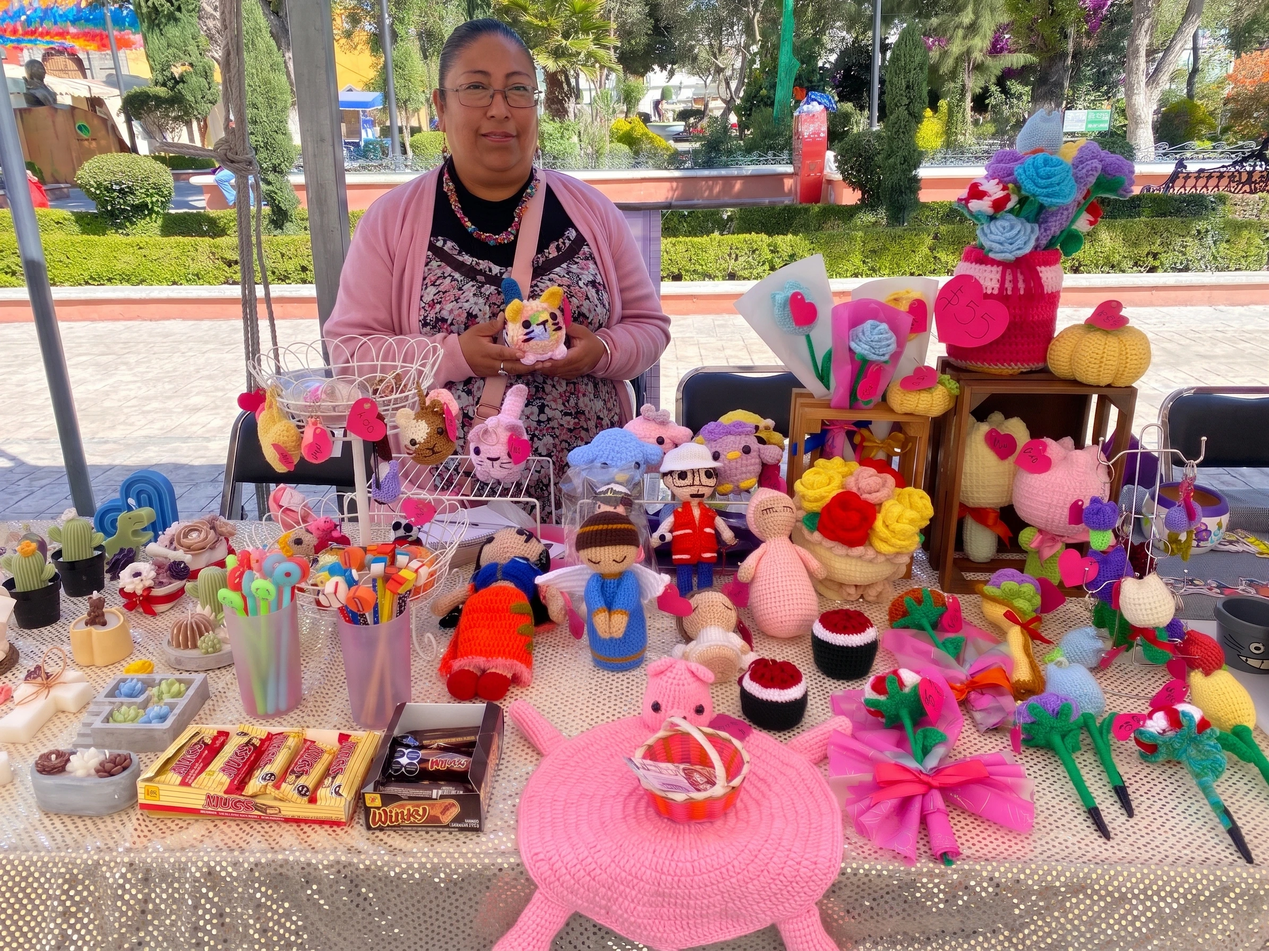
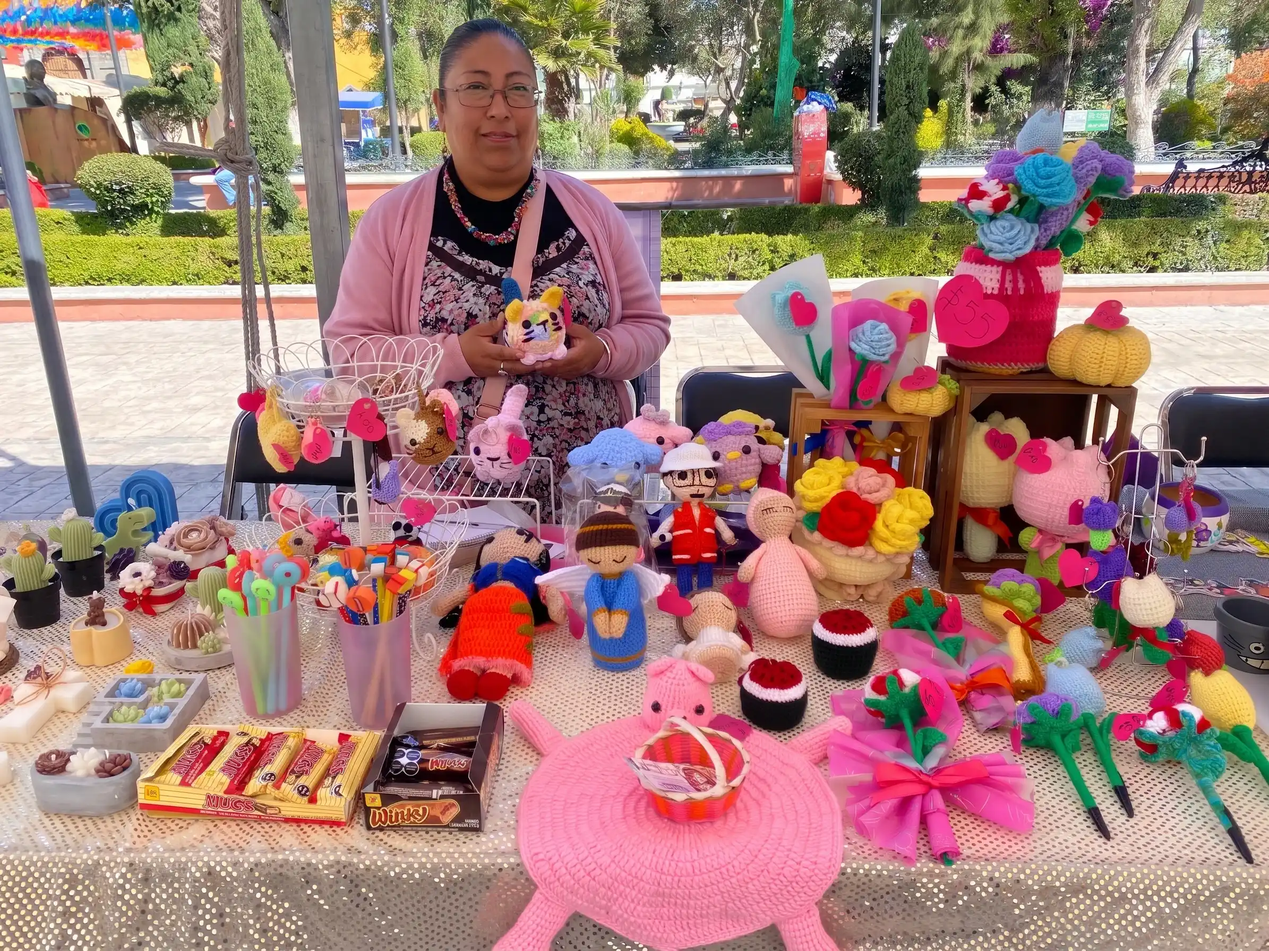
Colocación de 2 imágenes nuevas en la glería del index

diff --git a/index.html b/index.html
@@ -269,18 +269,20 @@
                     </div>
                 </div>
 
-                <!-- Columna de Carrusel (4 Imágenes) -->
+                <!-- Columna de Carrusel (6 Imágenes) -->
                 <div class="lg:col-span-6 order-1 lg:order-2">
                     <div class="glass-card p-4 sm:p-6 rounded-[2rem] relative">
                         
                         <!-- Contenedor del Carrusel -->
                         <div id="aboutCarousel" class="aspect-[4/3] rounded-2xl overflow-hidden relative group bg-brand-dark/40">
                             
-                            <!-- Imágenes del Carrusel (Cambia las rutas por tus 4 fotos) -->
+                            <!-- Imágenes del Carrusel (6 fotos) -->
                             <img src="assets/img/about.webp" alt="Creaciones KINAKU Manualidades 1" class="about-slide w-full h-full object-cover absolute inset-0 transition-all duration-700 opacity-100 scale-100 z-10">
                             <img src="assets/img/about2.jpg" alt="Creaciones KINAKU Manualidades 2" class="about-slide w-full h-full object-cover absolute inset-0 transition-all duration-700 opacity-0 scale-105 z-0 pointer-events-none">
                             <img src="assets/img/about3.jpg" alt="Creaciones KINAKU Manualidades 3" class="about-slide w-full h-full object-cover absolute inset-0 transition-all duration-700 opacity-0 scale-105 z-0 pointer-events-none">
                             <img src="assets/img/about4.jpg" alt="Creaciones KINAKU Manualidades 4" class="about-slide w-full h-full object-cover absolute inset-0 transition-all duration-700 opacity-0 scale-105 z-0 pointer-events-none">
+                            <img src="assets/img/about5.jpeg" alt="Creaciones KINAKU Manualidades 5" class="about-slide w-full h-full object-cover absolute inset-0 transition-all duration-700 opacity-0 scale-105 z-0 pointer-events-none">
+                            <img src="assets/img/about6.jpeg" alt="Creaciones KINAKU Manualidades 6" class="about-slide w-full h-full object-cover absolute inset-0 transition-all duration-700 opacity-0 scale-105 z-0 pointer-events-none">
 
                             <!-- Degradado inferior sutil para resaltar los indicadores -->
                             <div class="absolute inset-0 bg-gradient-to-t from-black/45 via-transparent to-transparent z-20 pointer-events-none"></div>
@@ -295,12 +297,14 @@
                                 <i class="ph-bold ph-caret-right text-base sm:text-lg"></i>
                             </button>
 
-                            <!-- Indicadores (4 puntos inferiores) -->
+                            <!-- Indicadores (6 puntos inferiores) -->
                             <div class="absolute bottom-3.5 left-1/2 -translate-x-1/2 z-30 flex items-center gap-2 bg-black/25 backdrop-blur-sm px-3 py-1.5 rounded-full">
                                 <button type="button" aria-label="Ver foto 1" data-slide="0" class="about-dot w-6 h-2 rounded-full bg-white transition-all duration-300"></button>
                                 <button type="button" aria-label="Ver foto 2" data-slide="1" class="about-dot w-2 h-2 rounded-full bg-white/50 hover:bg-white/80 transition-all duration-300"></button>
                                 <button type="button" aria-label="Ver foto 3" data-slide="2" class="about-dot w-2 h-2 rounded-full bg-white/50 hover:bg-white/80 transition-all duration-300"></button>
                                 <button type="button" aria-label="Ver foto 4" data-slide="3" class="about-dot w-2 h-2 rounded-full bg-white/50 hover:bg-white/80 transition-all duration-300"></button>
+                                <button type="button" aria-label="Ver foto 5" data-slide="4" class="about-dot w-2 h-2 rounded-full bg-white/50 hover:bg-white/80 transition-all duration-300"></button>
+                                <button type="button" aria-label="Ver foto 6" data-slide="5" class="about-dot w-2 h-2 rounded-full bg-white/50 hover:bg-white/80 transition-all duration-300"></button>
                             </div>
 
                         </div>
